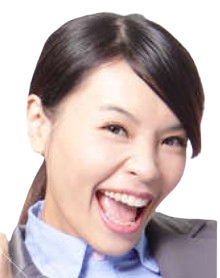
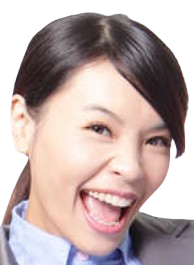
added better image placement, relocated button relative to images to be beneath them instead of behind, and added background and body as parameters to query Spotify API

diff --git a/src/components/MoodSelect.js b/src/components/MoodSelect.js
@@ -45,28 +45,28 @@ const MoodSelect = ({ onMoodSelect }) => {
   };
 
   return (
-    <div className="mood-select-container">
-      <img
-        src={backgrounds[selectedBackgroundIndex]}
-        alt="Background"
-        className="mood-select-background"
-        onClick={() => handleImageClick('background')}
-      />
-      <img
-        src={bodies[selectedBodyIndex]}
-        alt="Body"
-        className="mood-select-body"
-        onClick={() => handleImageClick('body')}
-      />
-      <img
-        src={faces[selectedFaceIndex]}
-        alt="Face"
-        className="mood-select-face"
-        onClick={() => handleImageClick('face')}
-      />
-      <div>
-        <button onClick={handleSubmit}>Get Playlist</button>
+    <div>
+      <div className="mood-select-container">
+        <img
+          src={backgrounds[selectedBackgroundIndex]}
+          alt="Background"
+          className="mood-select-background"
+          onClick={() => handleImageClick('background')}
+        />
+        <img
+          src={bodies[selectedBodyIndex]}
+          alt="Body"
+          className="mood-select-body"
+          onClick={() => handleImageClick('body')}
+        />
+        <img
+          src={faces[selectedFaceIndex]}
+          alt="Face"
+          className="mood-select-face"
+          onClick={() => handleImageClick('face')}
+        />
       </div>
+      <button onClick={handleSubmit}>Get Playlist</button>
     </div>
   );
 };

diff --git a/src/index.css b/src/index.css
@@ -50,9 +50,10 @@ button.selected {
 
 .mood-select-container {
   position: relative;
-  width: 300px; /* Adjust width as needed */
-  height: 300px; /* Adjust height as needed */
-  margin: 0 auto; /* Center container horizontally */
+  width: 100%; /* Use full width */
+  max-width: 1000px; /* Set maximum width for the container */
+  height: 600px; /* Set a fixed height */
+  margin: 0 auto 20px; /* Center container horizontally and add space below */
   text-align: center; /* Center text inside container */
 }
 
@@ -60,27 +61,29 @@ button.selected {
 .mood-select-body,
 .mood-select-face {
   position: absolute;
-  top: 0;
-  left: 0;
-  width: 100%;
-  height: 100%;
+  left: 50%;
+  transform: translateX(-50%);
   object-fit: cover; /* Maintain aspect ratio while covering the container */
-  z-index: 1; /* Ensure all images are stacked */
 }
 
 .mood-select-background {
-  width: 1000px;
-  height: 600px;
+  top: 0;
+  width: 100%;
+  height: 100%;
   z-index: 1; /* Background is at the bottom */
 }
 
 .mood-select-body {
-  width: 600px;
-  height: 1000px;
+  top: 50%;
+  transform: translate(-50%, -50%); /* Center body horizontally and vertically */
+  max-height: 300px;
   z-index: 2; /* Body is in the middle */
 }
 
 .mood-select-face {
+  top: 35%; /* Adjust this value to position the face relative to the body */
+  transform: translate(-50%, -130%);
+  max-height: 150px;
   z-index: 3; /* Face is on top */
 }
 

diff --git a/build/index.html b/build/index.html
@@ -1,1 +1,1 @@
-<!doctype html><html lang="en"><head><meta charset="utf-8"/><link rel="icon" href="/favicon.ico"/><meta name="viewport" content="width=device-width,initial-scale=1"/><meta name="theme-color" content="#000000"/><meta name="description" content="Web site created using create-react-app"/><link rel="apple-touch-icon" href="/logo192.png"/><link rel="manifest" href="/manifest.json"/><title>React App</title><script defer="defer" src="/static/js/main.c26aae05.js"></script><link href="/static/css/main.15cd75ab.css" rel="stylesheet"></head><body><noscript>You need to enable JavaScript to run this app.</noscript><div id="root"></div></body></html>
+<!doctype html><html lang="en"><head><meta charset="utf-8"/><link rel="icon" href="/favicon.ico"/><meta name="viewport" content="width=device-width,initial-scale=1"/><meta name="theme-color" content="#000000"/><meta name="description" content="Web site created using create-react-app"/><link rel="apple-touch-icon" href="/logo192.png"/><link rel="manifest" href="/manifest.json"/><title>React App</title><script defer="defer" src="/static/js/main.c7c0c48f.js"></script><link href="/static/css/main.07538415.css" rel="stylesheet"></head><body><noscript>You need to enable JavaScript to run this app.</noscript><div id="root"></div></body></html>

diff --git a/server/server.js b/server/server.js
@@ -112,7 +112,18 @@ app.get("/recommendations", async (req, res) => {
           limit: 10,
           target_energy:
             face === "energetic" ? 0.8 : face === "relaxed" ? 0.2 : 0.5,
-          target_valence: face === "happy" ? 0.9 : face === "sad" ? 0.1 : 0.5,
+          target_valence: 
+            face === "happy" ? 0.9 : face === "sad" ? 0.1 : 0.5,
+          target_danceability:
+            background === "party" ? 0.9 : background === "park" ? 0.3 : 0.5,
+          // target_speechiness:
+          // target_instrumentalness: 
+          target_liveness:
+            body === "dancing" ? 0.8 : body === "sitting" ? 0.2 : 0.5,
+          target_loudness:
+            background === "gym" ? 0.7 : background === "city" ? 0.3 : 0.5,
+          target_acousticness:
+            body === "standing" ? 0.6 : body === "running" ? 0.3 : 0.5,
         },
         headers: {
           Authorization: `Bearer ${accessToken}`,
